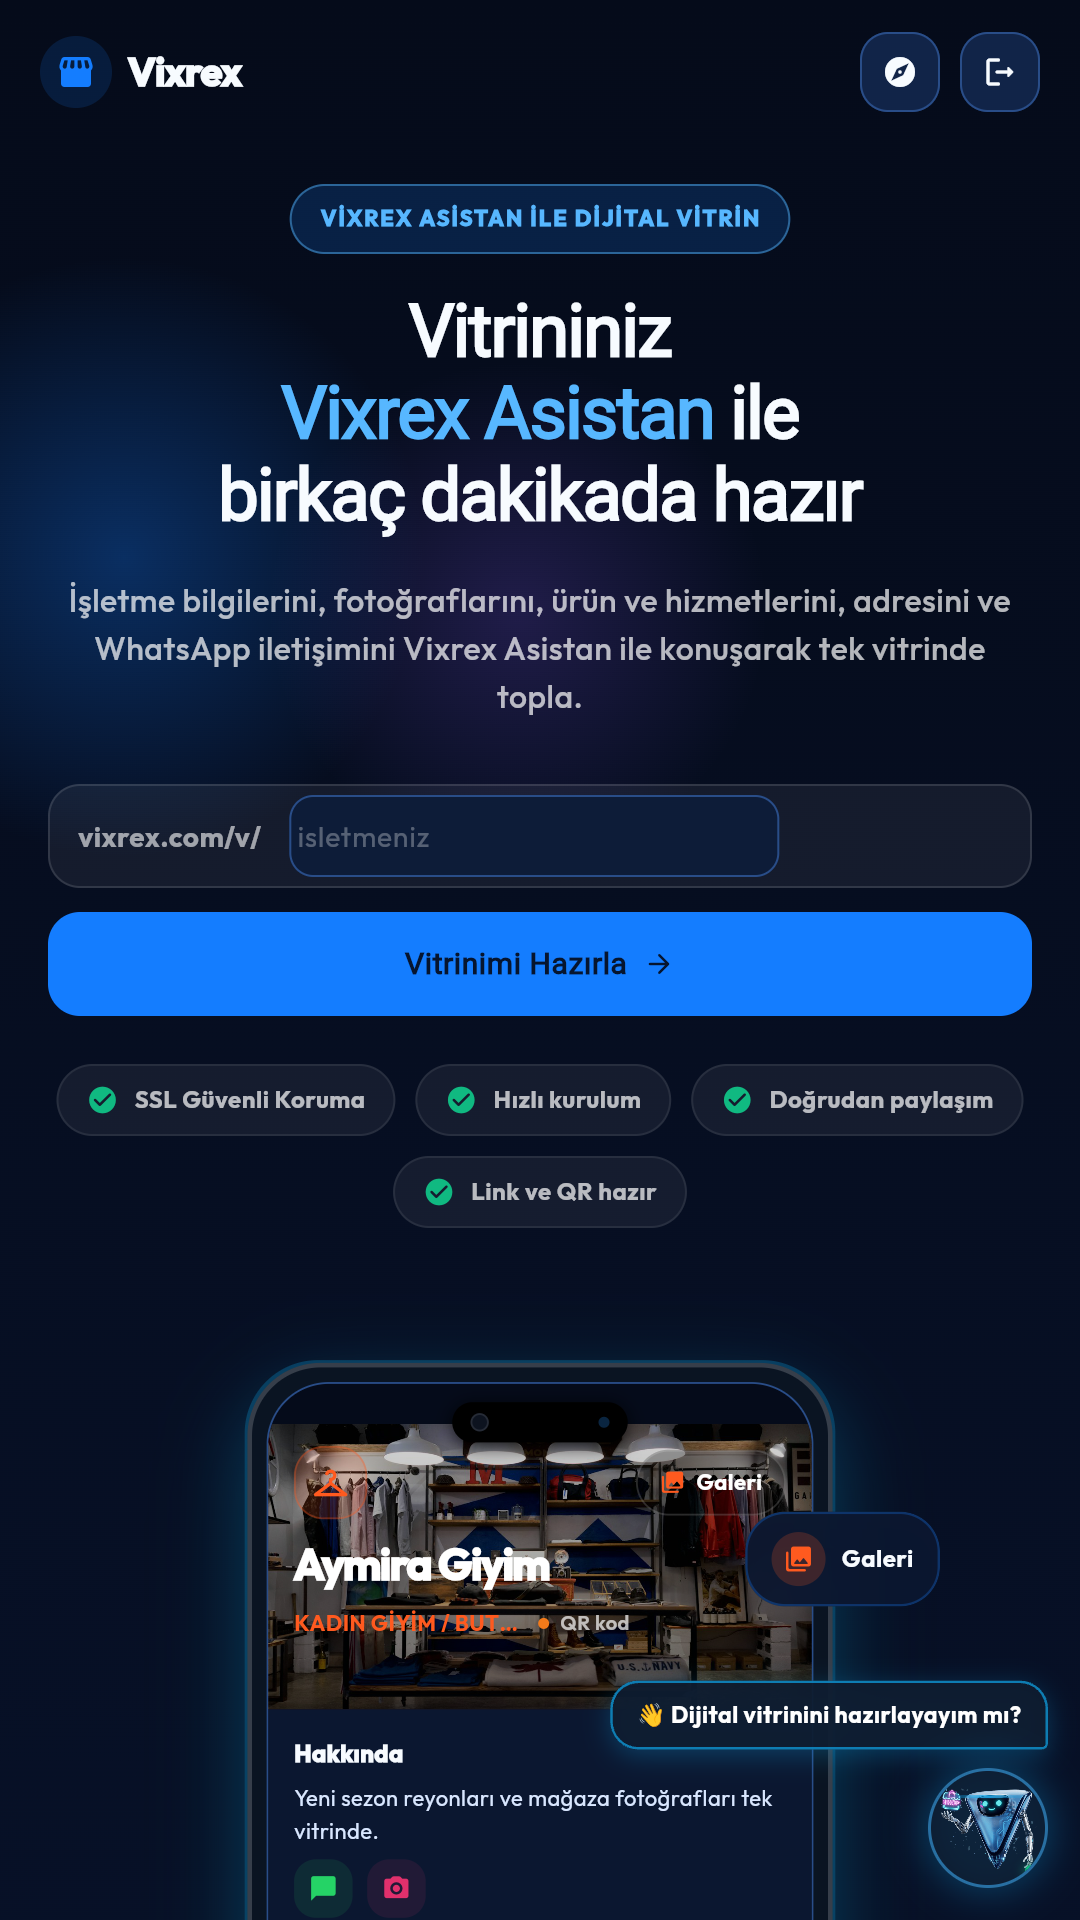
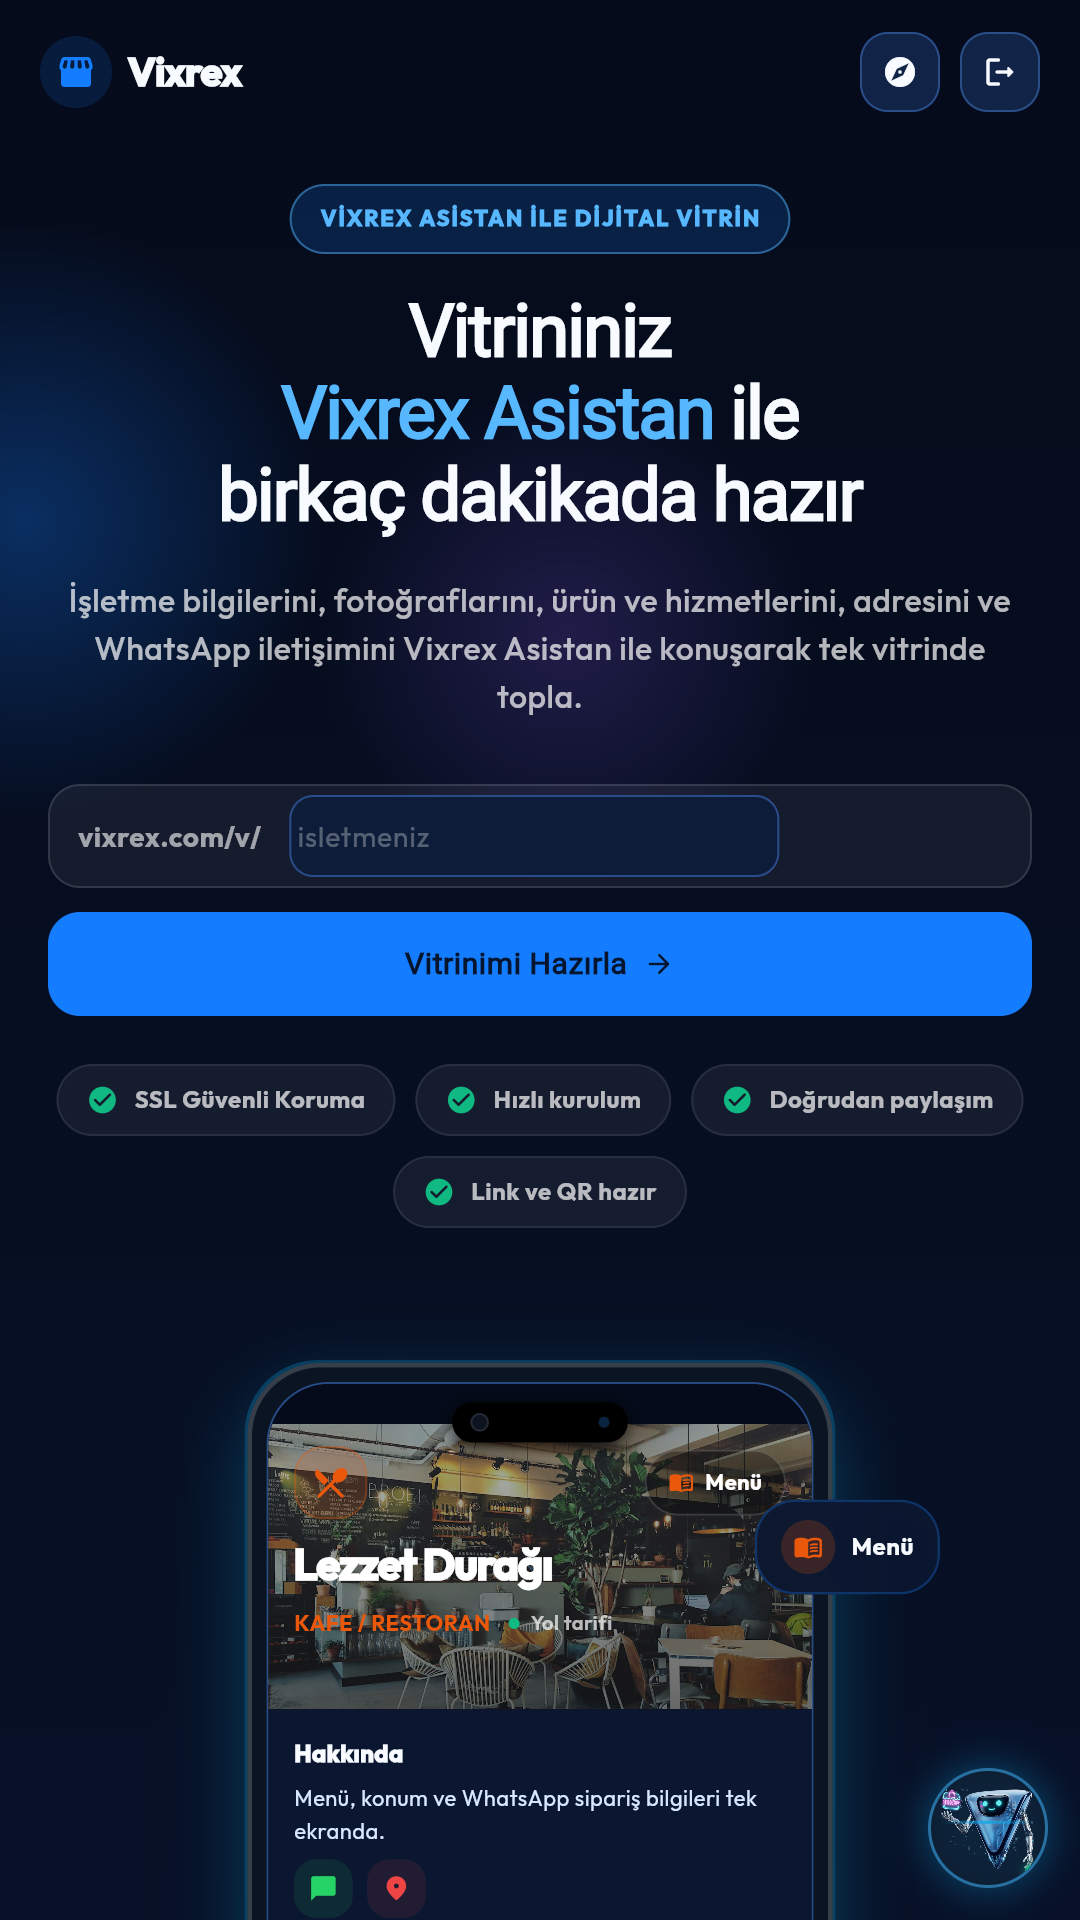
fix(play-store): web vaatlerini geri getir, afiş Türkçesini ve mağaza görsellerini düzelt

Changed region(s): [[0.2444, 0.7188, 0.9778, 0.9375], [0.2444, 0.25, 0.3361, 0.3438], [0.275, 0.9375, 0.3972, 1.0]]

diff --git a/public_web/tests/landing-trust-steps-parite.test.ts b/public_web/tests/landing-trust-steps-parite.test.ts
@@ -9,18 +9,20 @@ describe("Landing güven bandı paritesi", () => {
   const flutterTrust = oku("../../lib/widgets/landing/landing_trust_band.dart");
   const webTrust = oku("../src/components/landing/TrustBand.tsx");
 
-  it("beş rozet metni iki tarafta aynıdır", () => {
-    const rozetler = [
-      "Hızlı kurulum",
-      "Doğrudan paylaşım",
+  it("ortak üç rozet metni iki tarafta aynıdır, politika rozetleri platforma göre ayrılır", () => {
+    const ortakRozetler = [
       "Kodsuz kurulum",
       "Link ve QR kod hazırdır",
       "WhatsApp ile doğrudan iletişim",
     ];
-    for (const rozet of rozetler) {
+    for (const rozet of ortakRozetler) {
       expect(flutterTrust).toContain(rozet);
       expect(webTrust).toContain(rozet);
     }
+    expect(flutterTrust).toContain("Hızlı kurulum");
+    expect(flutterTrust).toContain("Doğrudan paylaşım");
+    expect(webTrust).toContain("Kredi kartı gerekmez");
+    expect(webTrust).toContain("Satıştan komisyon alınmaz");
   });
 
   it("başlık ve kabuk ölçüleri Flutter ile aynıdır", () => {

diff --git a/tool/play_store_ekran_cek.js b/tool/play_store_ekran_cek.js
@@ -24,6 +24,29 @@ const ROUTES = [
   });
   const page = await context.newPage();
 
+  await page.route("**/rest/v1/stores*", async (route) => {
+    const response = await route.fetch();
+    const contentType = response.headers()["content-type"] || "";
+    if (!contentType.includes("application/json")) {
+      return route.fulfill({ response });
+    }
+    const body = await response.json();
+    if (!Array.isArray(body)) {
+      return route.fulfill({ response });
+    }
+    const temiz = body.filter(
+      (item) =>
+        item &&
+        typeof item.name === "string" &&
+        !/^deneme/i.test(item.name.trim()) &&
+        (item.shelf_image_url || item.logo_url)
+    );
+    return route.fulfill({
+      response,
+      body: JSON.stringify(temiz.length > 0 ? temiz : body),
+    });
+  });
+
   for (const [route, filename] of ROUTES) {
     await page.goto(`${BASE}${route}`, { waitUntil: "domcontentloaded" });
     await page.waitForTimeout(12000);

diff --git a/public_web/src/components/landing/HeroSection.tsx b/public_web/src/components/landing/HeroSection.tsx
@@ -7,8 +7,8 @@ import type { MockupProfili } from "./mockupProfilleri";
 /** Hero — envanter §2.2. Flutter referans: landing_hero_section.dart:613-616 (4 rozet) */
 const GUVEN_ROZETLERI = [
   "SSL Güvenli Koruma",
-  "Hızlı kurulum",
-  "Doğrudan paylaşım",
+  "Kredi kartı gerekmez",
+  "Komisyon yok",
   "Link ve QR hazır",
 ] as const;
 
@@ -213,7 +213,7 @@ export function HeroSection({
                 type="submit"
                 className="flex h-[52px] items-center justify-center gap-2 rounded-2xl bg-lp-primary px-6 text-[15px] font-black text-lp-on-primary transition-transform hover:-translate-y-0.5"
               >
-                Vitrinimi Hazırla
+                Ücretsiz Vitrinimi Hazırla
                 <IleriOkIkonu boyut={16} />
               </button>
             </form>

diff --git a/public_web/src/app/(site)/page.tsx b/public_web/src/app/(site)/page.tsx
@@ -26,7 +26,7 @@ export const revalidate = 300;
 export const metadata: Metadata = {
   title: "Vixrex — İşletmenin dijital vitrini, dakikalar içinde",
   description:
-    "İşletme bilgilerini, fotoğraflarını, ürün ve hizmetlerini, adresini ve WhatsApp iletişimini tek vitrin linkinde topla. Kodsuz kurulum, doğrudan paylaşım.",
+    "İşletme bilgilerini, fotoğraflarını, ürün ve hizmetlerini, adresini ve WhatsApp iletişimini tek vitrin linkinde topla. Kredi kartı gerekmez, komisyon yok.",
   alternates: { canonical: "/" },
   openGraph: {
     type: "website",

diff --git a/public_web/src/components/landing/TrustBand.tsx b/public_web/src/components/landing/TrustBand.tsx
@@ -2,8 +2,8 @@ import { OnayIkonu } from "@/components/site/icons";
 
 /** Güven bandı — envanter §2.7. */
 const ROZETLER = [
-  "Hızlı kurulum",
-  "Doğrudan paylaşım",
+  "Kredi kartı gerekmez",
+  "Satıştan komisyon alınmaz",
   "Kodsuz kurulum",
   "Link ve QR kod hazırdır",
   "WhatsApp ile doğrudan iletişim",

diff --git a/tool/play_store_varlik_uret.py b/tool/play_store_varlik_uret.py
@@ -56,7 +56,7 @@ def build_feature() -> None:
     draw.text((72, 150), "Vixrex", font=font(104), fill=WHITE)
     draw.text(
         (76, 276),
-        "Dijital vitrinini olustur, link ve QR ile paylas.",
+        "Dijital vitrinini oluştur, link ve QR ile paylaş.",
         font=font(34, bold=False),
         fill=BLUE,
     )

diff --git a/docs/play-store-hazirlik.md b/docs/play-store-hazirlik.md
@@ -13,7 +13,7 @@ Kaynak: `android/app/src/main/AndroidManifest.xml`
 |---|---|---|
 | `CAMERA` | Fotoğraftan/faturadan ürün çıkarma (OCR). Görsel cihazda işlenir, ürün eklendiğinde seçilen görsel Supabase depolamaya yüklenir. | **Photos** → "Collected" + "Shared"; amaç: App functionality |
 | `ACCESS_FINE_LOCATION` / `ACCESS_COARSE_LOCATION` | Vitrin adresini GPS ile doldurma; ters coğrafi kodlama için OpenStreetMap Nominatim'e koordinat gönderilir. | **Precise location** → "Collected" + "Shared"; amaç: App functionality |
-| `POST_NOTIFICATIONS` | OneSignal ile randevu/ürün bildirimleri; kullanıcı açıkça izin verir, ayarlardan kapatabilir. | **Identifiers** (OneSignalplayer ID) → "Collected" + "Shared"; amaç: App functionality / Notifications |
+| `POST_NOTIFICATIONS` | OneSignal ile randevu/ürün bildirimleri; kullanıcı açıkça izin verir, ayarlardan kapatabilir. | **Identifiers** (OneSignal player ID) → "Collected" + "Shared"; amaç: App functionality / Notifications |
 | `INTERNET` | Supabase, vixrex.com, OpenStreetMap, OneSignal HTTPS çağrıları. | Veri aktarımı **TLS/HTTPS** ile şifrelenir → "Data is encrypted in transit" işaretli |
 | `READ/WRITE_EXTERNAL_STORAGE` (`maxSdkVersion=32`) | Eski Android sürümlerinde galeriden görsel seçimi. | Ek veri kategorisi açmaz (Photos zaten işaretli) |
 
